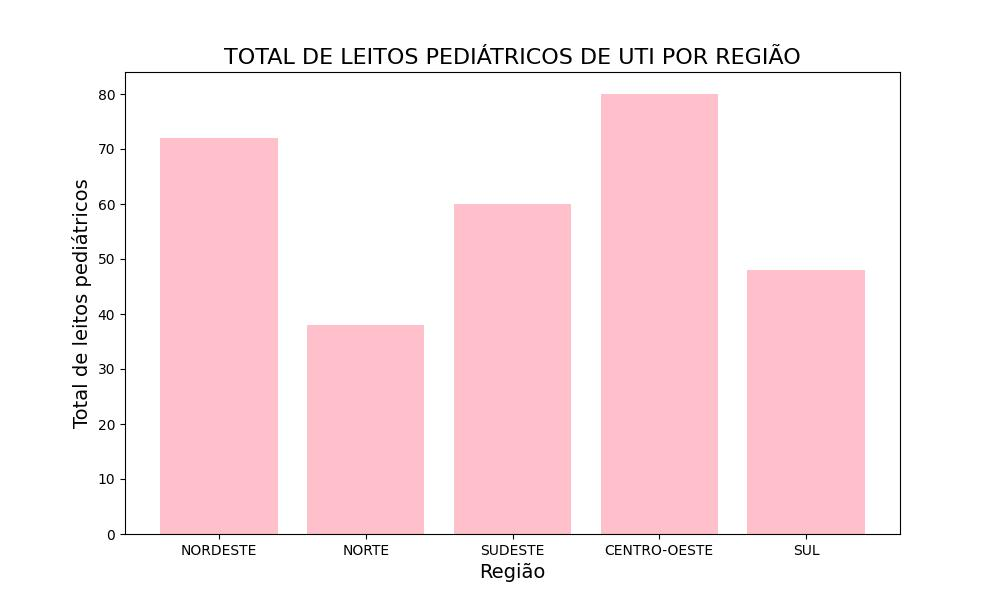
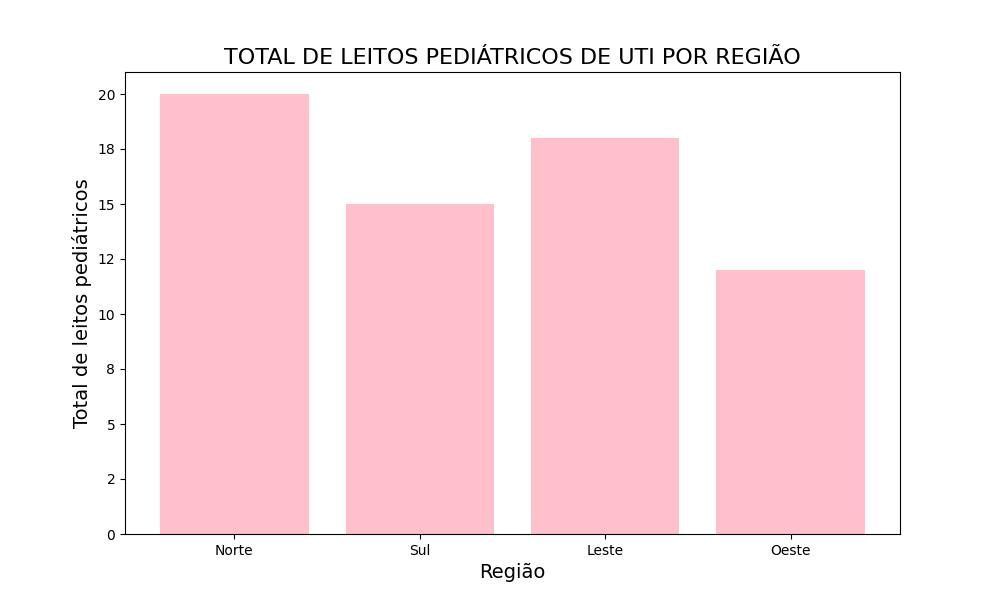
unittest eduarda

diff --git a/test_graph_bar.py b/test_graph_bar.py
@@ -1,0 +1,20 @@
+import unittest
+from graph_bar_eduarda import graph_bar
+import pandas as pd
+
+class TestGraphBar(unittest.TestCase):
+
+    def test_graph_bar(self):
+        data = pd.DataFrame({'REGIAO': ['Norte', 'Sul', 'Leste', 'Oeste'],
+                             'UTI_PEDIATRICO_EXIST': [20, 15, 18, 12]})
+        
+        # Testando se a função não gera exceções
+        graph_bar(data, 'REGIAO', 'UTI_PEDIATRICO_EXIST',
+                  'TOTAL DE LEITOS PEDIÁTRICOS DE UTI POR REGIÃO',
+                  'Região', 'Total de leitos pediátricos',
+                  'uti_pediatrico_por_regiao.jpg')
+
+        # Adicione outros testes conforme necessário
+
+if __name__ == '__main__':
+    unittest.main()
